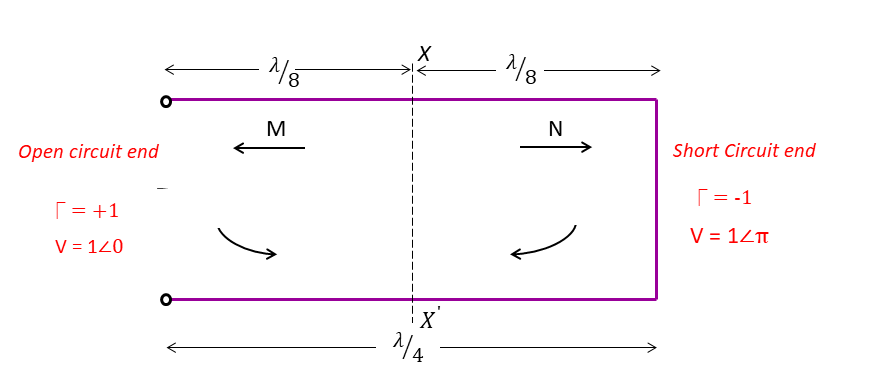
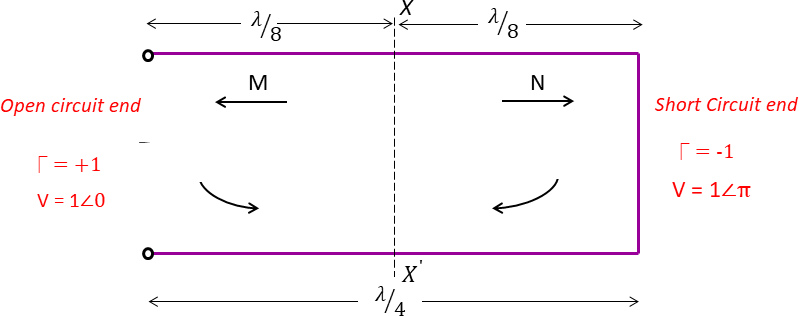
modified added image🖼 and formatted syntax

diff --git a/TeX_files/chapter11.tex b/TeX_files/chapter11.tex
@@ -253,7 +253,7 @@ Let us consider a small section of transmission line of length, $l = \frac{\lamb
  At any time, it would appear that the two sections, A and B, of the transmission line are connected in parallel. With the induced voltage, a standing wave signal will get induced in the transmission line. This standing wave (voltage and current distribution) does not see any impedance but the characteristic impedance of the transmission line. So the voltage at the middle point XX sends two travelling waves along the transmission line as if the energy is supplied to the characteristic impedance of the two sections of the transmission line. The waves as shown in figure~\ref{fig:fig6} are going in directions M and N respectively.
  \begin{figure}[h]
 \centering
-\includegraphics[width=1.1\linewidth]{./graphics/step_up_transformer_application}
+\includegraphics[width=1\linewidth]{\pathtopartone/graphics/step_up_transformer_application}
 \caption{Standing wave propagation in the transmission line with one end open and the other end shorted}
 \label{fig:fig6}
 \end{figure}
